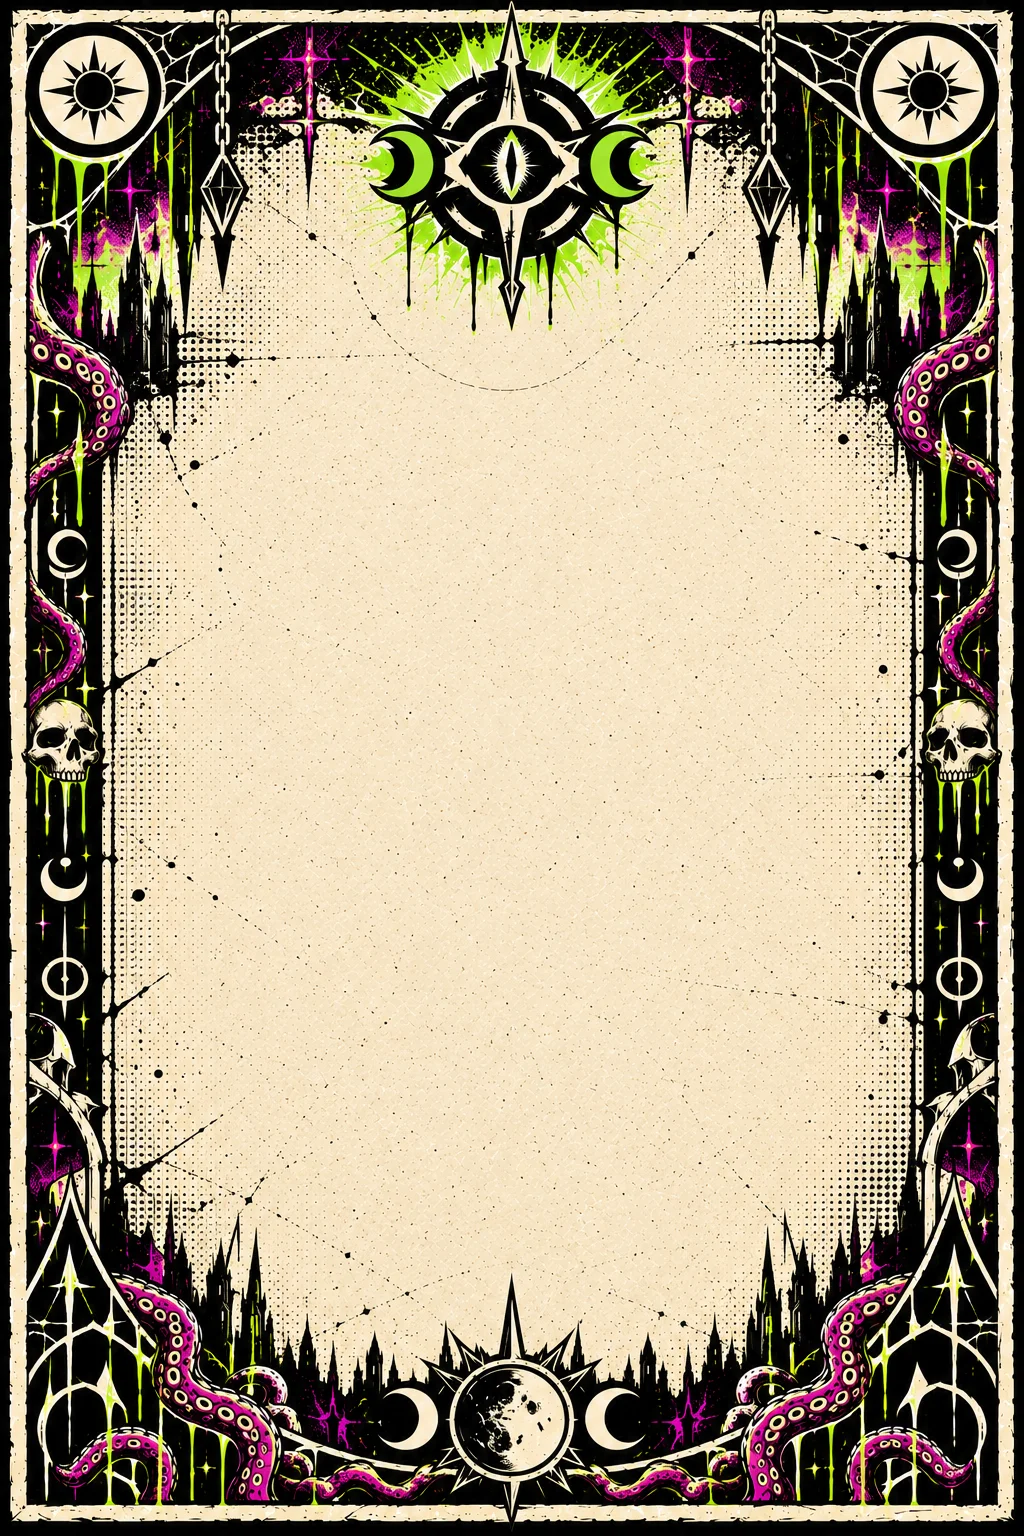
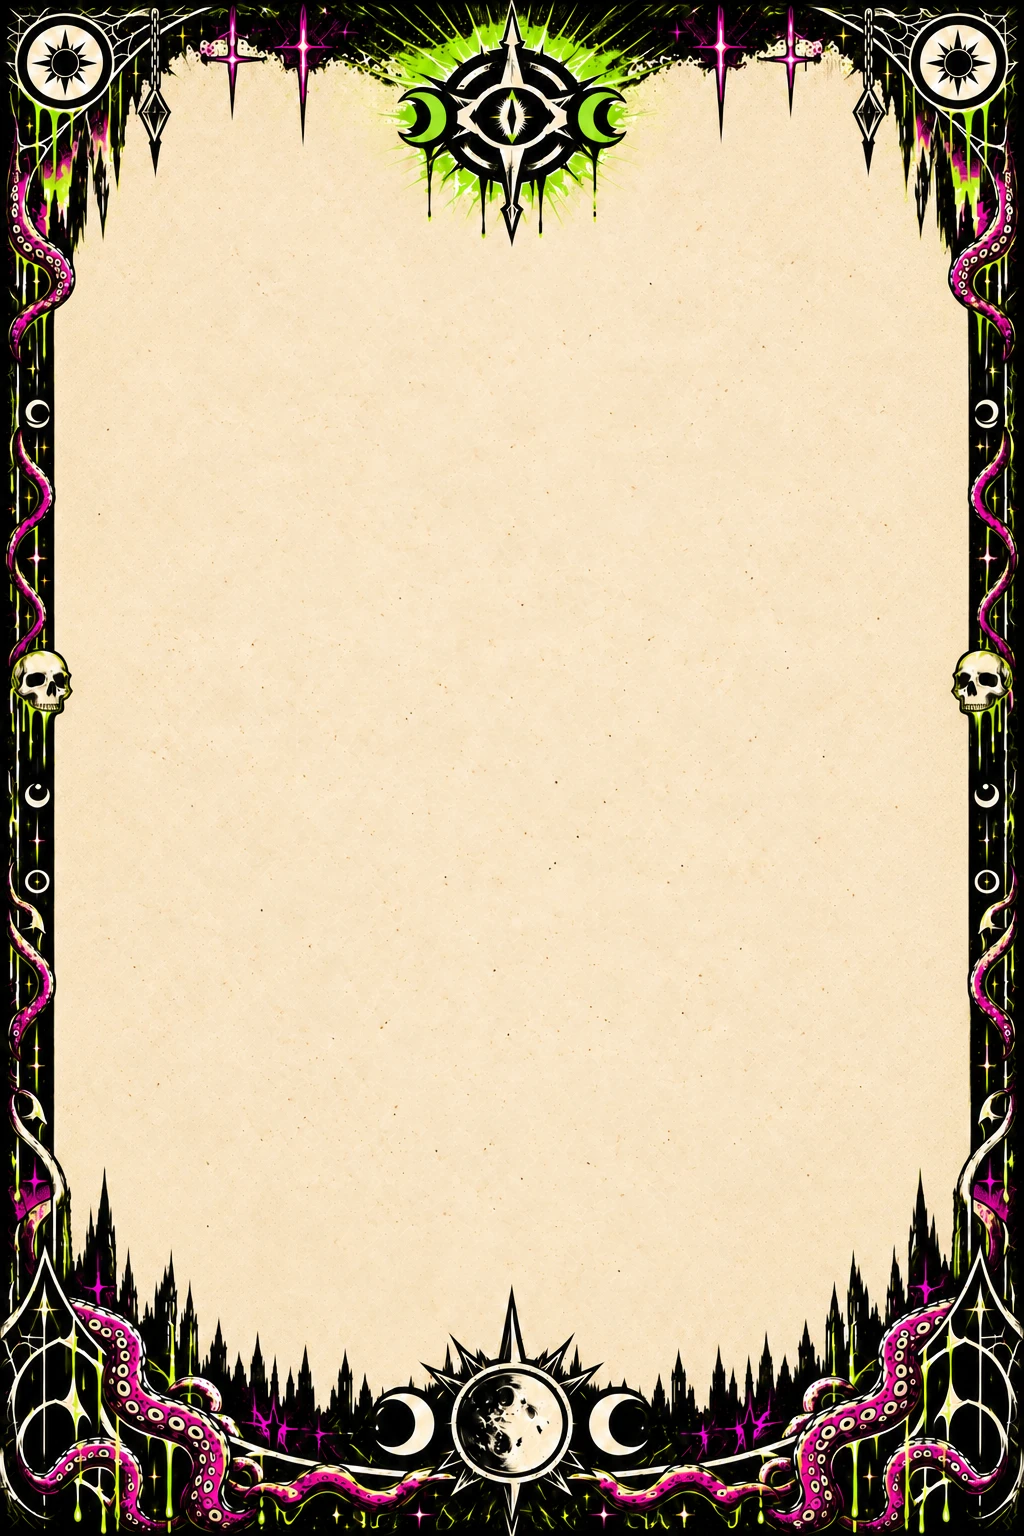
Злая рамка оборота: новая тонкая, повтор по разметке владельца

diff --git a/client/src/components/dnd/dnd-cards.css b/client/src/components/dnd/dnd-cards.css
@@ -333,12 +333,13 @@
   border-image-slice: 330 140 330 140 fill;
   border-width: 32.227cqi 13.672cqi;
 }
-/* У злой повторяется только чистая полоса с луной: выступы верха не
-   размножаются и на текст не лезут. */
+/* У злой повторяется полоса от полумесяца над черепом до крючков над
+   шпилями низа (разметка владельца 2026-09-24): она стыкуется сама с собой,
+   а глаз сверху и шпили снизу не размножаются. */
 .dc-scroll--evil .dc-scroll-frame {
   border-image-source: url("../../assets/cards/back-evil.webp");
-  border-image-slice: 830 130 476 130 fill;
-  border-width: 81.055cqi 12.695cqi 46.484cqi;
+  border-image-slice: 370 75 471 75 fill;
+  border-width: 36.133cqi 7.324cqi 45.996cqi;
 }
 .dc-scroll-body {
   box-sizing: border-box;
@@ -351,7 +352,7 @@
   padding: 35.156cqi 17.5cqi 29.297cqi;
 }
 .dc-scroll--evil .dc-scroll-body {
-  padding: 37.109cqi 18.5cqi 29.297cqi;
+  padding: 26cqi 9.5cqi 29.297cqi;
 }
 .dc-scroll a,
 .dc-scroll .muted {

diff --git a/client/src/components/dnd/wizard-mobile.css b/client/src/components/dnd/wizard-mobile.css
@@ -769,13 +769,8 @@ button.wz-abil {
 
 /* Оборот карты в ленте визарда — для чтения, а не для колоды: рамка тоньше
    на 40%, текст шире. Полная рамка съедала треть ширины, и на карте в 220 px
-   в строку влезало два-три слова. Пропорции те же, что в dnd-cards.css, ×0.6. */
-.wz-slide-back .dc-scroll--evil .dc-scroll-frame {
-  border-width: 48.633cqi 7.617cqi 27.89cqi;
-}
-.wz-slide-back .dc-scroll--evil .dc-scroll-body {
-  padding: 22.265cqi 9.5cqi 17.578cqi;
-}
+   в строку влезало два-три слова. Пропорции те же, что в dnd-cards.css, ×0.6.
+   Злая рамка уже нарисована тонкой (2026-09-24) и не ужимается. */
 .wz-slide-back .dc-scroll--good .dc-scroll-frame {
   border-width: 19.336cqi 8.203cqi;
 }

diff --git a/SoyMan_1shot/REVISION.md b/SoyMan_1shot/REVISION.md
@@ -87,6 +87,9 @@
 - Лента карт на ПК: последняя карта не выбиралась — позиции карт считались
   от подложки модалки, а не от ленты (сдвиг на её отступ). Карты крупнее
   (ПК 300 px, телефон до 82% ширины), рамка оборота в ленте на 40% тоньше.
+- Злая рамка оборота заменена новой, тонкой (рисунок владельца): повторяется
+  полоса от полумесяца над черепом до крючков над шпилями, текст шире и
+  в колоде на листе.
 
 ## Исправлено 2026-09-24
 
